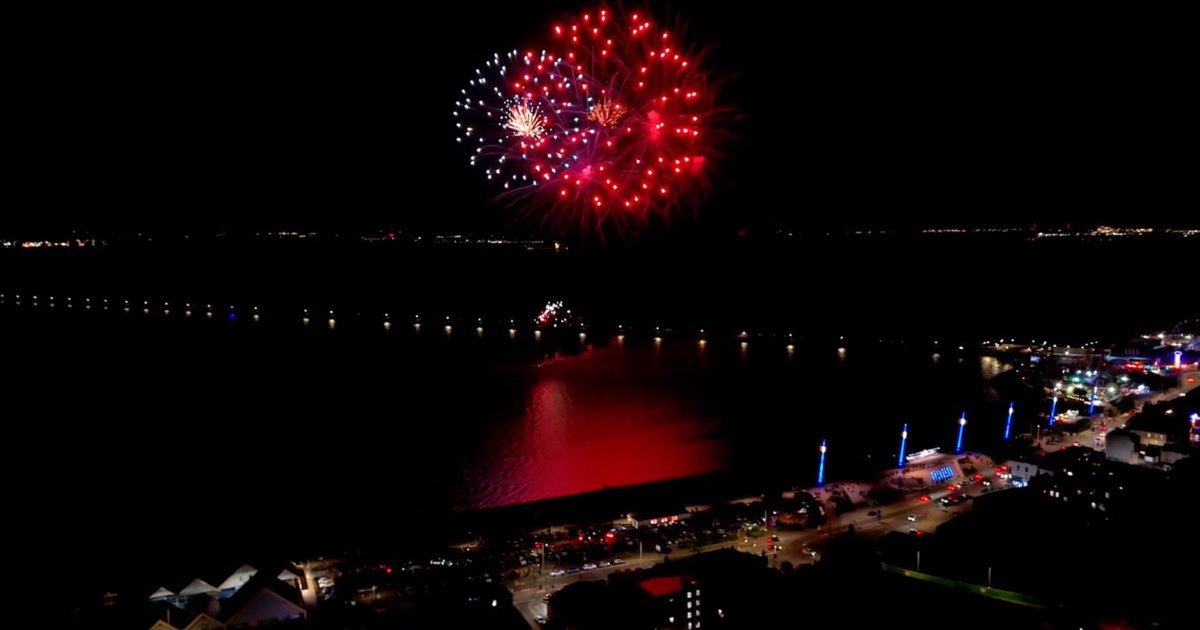
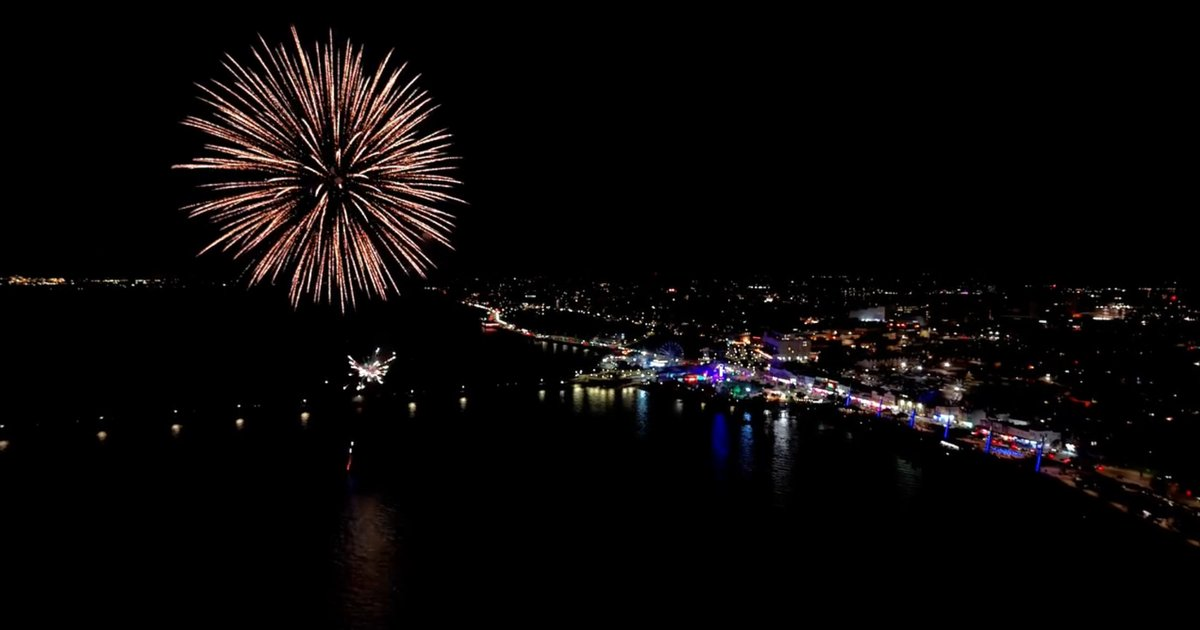
Southend fireworks: owner's better picture, credit DJIRAF
Claude-Session: https://claude.ai/code/session_018rhzTGPStmu4ppibYPgHS8

diff --git a/index.html b/index.html
@@ -4127,7 +4127,7 @@ function isSecurityStory(s){
   return SECURITY_RX.test(h) && !SECURITY_BAD_RX.test(h + " " + String(s.summary || ""));
 }
 /* Southend fireworks stories (displays over the seafront and pier, Bonfire Night, New Year, the Big Beach Bang) use the
-   owner's picture of red fireworks over the Thames off Southend seafront (owner's rule, 22 Nov 2026). Needs a firework word
+   owner's picture of fireworks over the Thames off Southend seafront, credit DJIRAF (owner's rule, 22 Nov 2026). Needs a firework word
    in the headline AND a Southend-area place in the headline or place. Injuries, deaths, fireworks thrown at people,
    anti-social behaviour, dispersal orders, police, fires and court cases keep the normal rules. Same rule as
    tools/build.py is_southend_fireworks */
@@ -4139,7 +4139,7 @@ function isSouthendFireworksStory(s){
   const h = String(s.headline || "");
   return FIREWORKS_RX.test(h) && FIREWORKS_PLACE_RX.test(h + " " + String(s.place || "")) && !FIREWORKS_BAD_RX.test(h + " " + String(s.summary || ""));
 }
-function southendFireworksArt(s){ return `<svg class="emap wxart townphoto" width="100%" height="100%" role="img" aria-label="Library photo: red fireworks over the Thames off Southend seafront at night" style="background:#120608"><image href="/img/topics/southendfireworks.jpg?v=1" x="0" y="0" width="100%" height="100%" preserveAspectRatio="xMidYMid slice"/></svg>`; }
+function southendFireworksArt(s){ return `<svg class="emap wxart townphoto" width="100%" height="100%" role="img" aria-label="Library photo: a golden firework burst over the Thames off Southend seafront at night" style="background:#0a0a0c"><image href="/img/topics/southendfireworks.jpg?v=2" x="0" y="0" width="100%" height="100%" preserveAspectRatio="xMidYMid slice"/></svg>`; }
 /* Essex history book stories (a new local history book, an author or historian writing about a town's past) use the owner's
    photo of a shelf of Essex local history books (owner's rule, 22 Nov 2026). Headline needs a book word AND a history word;
    "book now" and bookings do not count. More specific photos, police and fire still win; crimes, deaths, court cases and
@@ -4233,7 +4233,7 @@ function hospitalArt(s){ return `<svg class="emap wxart townphoto" width="100%" 
 function roadArt(s){ const r = ROAD_SIGN[roadOf(s)]; return `<svg class="emap wxart roadsign" width="100%" height="100%" role="img" aria-label="${esc(r.what)}" style="background:${r.bg}"><image href="${r.src}" x="6%" y="6%" width="88%" height="88%" preserveAspectRatio="xMidYMid meet"/></svg>`; }
 /* the art shown for a story: weather scenes for county-wide weather, a sport object for every sport story, club colours (now unused for sport), occasion scenes, otherwise the map */
 function storyArt(s, opts){ opts = opts || {}; return !opts.map && portraitOf(s) ? portraitArt(s, opts) : !opts.map && isRoseCrownStory(s) ? roseCrownArt(s, opts) : !opts.map && isXmasCathedralStory(s) ? xmasCathedralArt(s, opts) : isZooMap(s) || isStanstedMap(s) || isMerseaMap(s) || isFoodMap(s) || isOwnerMap(s) || isC2cMap(s) ? storyMap(s, opts) : !opts.map && isC2cStory(s) && isC2cBad(s) ? breakingArt(s, opts) : !opts.map && isC2cPhoto(s) ? c2cArt(s, opts) : !opts.map && isZooPhoto(s) ? zooArt(s, opts) : !opts.map && isStanstedPhoto(s) ? stanstedArt(s, opts) : !opts.map && isMerseaPhoto(s) ? merseaArt(s, opts) : !opts.map && isFoodPhoto(s) ? foodArt(s, opts) : !opts.map && isGasWorkStory(s) ? gasArt(s, opts) : !opts.map && isDataCentreStory(s) ? dataCentreArt(s, opts) : !opts.map && isRemembranceStory(s) ? remembranceArt(s, opts) : !opts.map && isLiverpoolStStory(s) ? liverpoolStArt(s, opts) : !opts.map && isGreaterAngliaStory(s) ? greaterAngliaArt(s, opts) : !opts.map && isBusStory(s) ? busArt(s, opts) : !opts.map && isPoolStory(s) ? poolArt(s, opts) : !opts.map && isHomelessStory(s) ? homelessArt(s, opts) : !opts.map && isDentalStory(s) ? dentalArt(s, opts) : !opts.map && isPostOfficeStory(s) ? postOfficeArt(s, opts) : !opts.map && isSecurityStory(s) ? securityArt(s, opts) : !opts.map && isSouthendFireworksStory(s) ? southendFireworksArt(s, opts) : !opts.map && isFogRoadStory(s) ? roadArt(s, opts) : !opts.map && isFogStory(s) ? fogArt(s, opts) : isWeatherArtStory(s) ? weatherArt(s, opts) : sportKindOf(s) ? sportArt(s, opts) : !opts.map && roadOf(s) ? roadArt(s, opts) : !opts.map && isAmbulanceStory(s) ? ambulanceArt(s, opts) : !opts.map && isTiptreeStory(s) ? tiptreeArt(s, opts) : !opts.map && isStateFayreStory(s) ? stateFayreArt(s, opts) : !opts.map && isHarlowCollegeStory(s) ? harlowCollegeArt(s, opts) : !opts.map && isColchesterCastleStory(s) ? colchesterCastleArt(s, opts) : !opts.map && isCountyHallStory(s) ? countyHallArt(s, opts) : !opts.map && isHospitalStory(s) ? hospitalArt(s, opts) : !opts.map && isPoliceStory(s) ? policeArt(s, opts) : !opts.map && isFireStory(s) ? fireArt(s, opts) : !opts.map && isHistoryBookStory(s) ? historyBookArt(s, opts) : !opts.map && stockOf(s) ? stockArt(s, opts) : !opts.map && isBreakingArtStory(s) ? breakingArt(s, opts) : clubOf(s) ? clubArt(s, opts) : !opts.map && isChristmasStory(s) ? christmasArt(s, opts) : seasonKindOf(s) ? seasonArt(s, opts) : !opts.map && townKeyOf(s) ? townArt(s, opts) : storyMap(s, opts); }
-function artCaption(s, noTown){ if(!noTown && portraitOf(s)){ const p = portraitOf(s); if(p.noCaption) return ""; /* owner asked for no caption on some photos (17 Nov 2026) */ return p.label ? `${p.label}${p.creator ? ": " + p.creator : ""}` : `${p.name} · File photo: ${p.creator}${p.license ? ", " + p.license : ""}`; } if(!noTown && isRoseCrownStory(s)) return `Rose and Crown, Writtle · Library image`; if(!noTown && isXmasCathedralStory(s)) return `Chelmsford Cathedral at Christmas · Library image`; if(isZooMap(s) || isStanstedMap(s) || isMerseaMap(s) || isFoodMap(s) || isOwnerMap(s) || isC2cMap(s)) return mapCaption(s); if(!noTown && isC2cStory(s) && isC2cBad(s)) return `${s.place || "Essex"}`; if(!noTown && isC2cPhoto(s)) return `c2c · Library image`; if(!noTown && isZooPhoto(s)) return `Colchester Zoo · Library image`; if(!noTown && isStanstedPhoto(s)) return `Library image · Photo: London Stansted Airport`; if(!noTown && isMerseaPhoto(s)) return `West Mersea · Library image`; if(!noTown && isFoodPhoto(s)) return `${s.place || "Essex"} · Food and drink · Library image`; if(!noTown && isGasWorkStory(s)) return `${s.place || "Essex"} · Gas works · Library image`; if(!noTown && isDataCentreStory(s)) return `${s.place || "Essex"} · Data centre · Library image`; if(!noTown && isLiverpoolStStory(s)) return `London Liverpool Street · Library image`; if(!noTown && isGreaterAngliaStory(s)) return `${s.place || "Essex"} · Greater Anglia · Library image`; if(!noTown && isBusStory(s)) return `${s.place || "Essex"} · Bus · Library image`; if(!noTown && isPoolStory(s)) return `${s.place || "Essex"} · Swimming pool · Library image`; if(!noTown && isHomelessStory(s)) return `${s.place || "Essex"} · Library image, not the scene of this story`; if(!noTown && isDentalStory(s)) return `${s.place || "Essex"} · Dental · Library image`; if(!noTown && isPostOfficeStory(s)) return `${s.place || "Essex"} · Post Office · Library image`; if(!noTown && isSecurityStory(s)) return `${s.place || "Essex"} · Security patrol · Library image`; if(!noTown && isSouthendFireworksStory(s)) return `Fireworks over Southend · Library image`; if(!noTown && isRemembranceStory(s)) return `${s.place || "Essex"} · Remembrance · Library image`; if(!noTown && isFogRoadStory(s)) return `${s.place || "Essex"} · ${ROAD_SIGN[roadOf(s)].what}`; if(!noTown && isFogStory(s)) return `${s.place || "Essex"} · Fog · Library image`; if(isWeatherArtStory(s)) return `Across Essex · ${WX_LABEL[wxKindOf(s)]}`; const c = clubOf(s), sk = sportKindOf(s); if(sk) return `${c || s.place || "Essex"} · ${SPORT_LABEL[sk]}`; if(!noTown && roadOf(s)) return `${s.place || "Essex"} · ${ROAD_SIGN[roadOf(s)].what}`; if(!noTown && isAmbulanceStory(s)) return `${s.place || "Essex"} · Library image`; if(!noTown && isTiptreeStory(s)) return `Wilkin & Sons, Tiptree · Library image`; if(!noTown && isStateFayreStory(s)) return `State Fayre, Hylands Park · Library image`; if(!noTown && isHarlowCollegeStory(s)) return `Harlow College · Library image`; if(!noTown && isColchesterCastleStory(s)) return `Colchester Castle · Library image`; if(!noTown && isCountyHallStory(s)) return `County Hall, Chelmsford · Library image`; if(!noTown && isHospitalStory(s)) return `${s.place || "Essex"} · Library image`; if(!noTown && isPoliceStory(s)) return `${s.place || "Essex"} · Library image`; if(!noTown && isFireStory(s)) return `${s.place || "Essex"} · Library image`; if(!noTown && isHistoryBookStory(s)) return `Essex history books · Library image`; if(!noTown && stockOf(s)){ const p = stockOf(s); return isBarePhoto(p) ? "" : isOwnerPhoto(p) && p.label ? p.label : isOwnerPhoto(p) ? (p.creator ? `${p.title ? p.title + " · " : ""}File photo: ${p.creator}${p.license ? ", " + p.license : ""}` : "File photo") : isCommonsPhoto(p) ? `${p.title ? p.title + " · " : ""}File photo: ${p.creator}, ${p.license}, via Wikimedia Commons` : `Stock photo: ${p.creator}, ${p.license}`; } if(!noTown && isBreakingArtStory(s)) return `${s.place || "Essex"}`; if(c) return CLUBS[c].nick ? `${c} · ${CLUBS[c].nick}` : c; if(!noTown && isChristmasStory(s)) return `${s.place || "Essex"} · Christmas · Library image`; const k = seasonKindOf(s); if(k) return `${s.place || "Essex"} · ${SEASON_LABEL[k]}`; const tk = !noTown && townKeyOf(s); if(tk) return townCredit(tk); return mapCaption(s); }
+function artCaption(s, noTown){ if(!noTown && portraitOf(s)){ const p = portraitOf(s); if(p.noCaption) return ""; /* owner asked for no caption on some photos (17 Nov 2026) */ return p.label ? `${p.label}${p.creator ? ": " + p.creator : ""}` : `${p.name} · File photo: ${p.creator}${p.license ? ", " + p.license : ""}`; } if(!noTown && isRoseCrownStory(s)) return `Rose and Crown, Writtle · Library image`; if(!noTown && isXmasCathedralStory(s)) return `Chelmsford Cathedral at Christmas · Library image`; if(isZooMap(s) || isStanstedMap(s) || isMerseaMap(s) || isFoodMap(s) || isOwnerMap(s) || isC2cMap(s)) return mapCaption(s); if(!noTown && isC2cStory(s) && isC2cBad(s)) return `${s.place || "Essex"}`; if(!noTown && isC2cPhoto(s)) return `c2c · Library image`; if(!noTown && isZooPhoto(s)) return `Colchester Zoo · Library image`; if(!noTown && isStanstedPhoto(s)) return `Library image · Photo: London Stansted Airport`; if(!noTown && isMerseaPhoto(s)) return `West Mersea · Library image`; if(!noTown && isFoodPhoto(s)) return `${s.place || "Essex"} · Food and drink · Library image`; if(!noTown && isGasWorkStory(s)) return `${s.place || "Essex"} · Gas works · Library image`; if(!noTown && isDataCentreStory(s)) return `${s.place || "Essex"} · Data centre · Library image`; if(!noTown && isLiverpoolStStory(s)) return `London Liverpool Street · Library image`; if(!noTown && isGreaterAngliaStory(s)) return `${s.place || "Essex"} · Greater Anglia · Library image`; if(!noTown && isBusStory(s)) return `${s.place || "Essex"} · Bus · Library image`; if(!noTown && isPoolStory(s)) return `${s.place || "Essex"} · Swimming pool · Library image`; if(!noTown && isHomelessStory(s)) return `${s.place || "Essex"} · Library image, not the scene of this story`; if(!noTown && isDentalStory(s)) return `${s.place || "Essex"} · Dental · Library image`; if(!noTown && isPostOfficeStory(s)) return `${s.place || "Essex"} · Post Office · Library image`; if(!noTown && isSecurityStory(s)) return `${s.place || "Essex"} · Security patrol · Library image`; if(!noTown && isSouthendFireworksStory(s)) return `Fireworks over Southend · Library image · Picture: DJIRAF`; if(!noTown && isRemembranceStory(s)) return `${s.place || "Essex"} · Remembrance · Library image`; if(!noTown && isFogRoadStory(s)) return `${s.place || "Essex"} · ${ROAD_SIGN[roadOf(s)].what}`; if(!noTown && isFogStory(s)) return `${s.place || "Essex"} · Fog · Library image`; if(isWeatherArtStory(s)) return `Across Essex · ${WX_LABEL[wxKindOf(s)]}`; const c = clubOf(s), sk = sportKindOf(s); if(sk) return `${c || s.place || "Essex"} · ${SPORT_LABEL[sk]}`; if(!noTown && roadOf(s)) return `${s.place || "Essex"} · ${ROAD_SIGN[roadOf(s)].what}`; if(!noTown && isAmbulanceStory(s)) return `${s.place || "Essex"} · Library image`; if(!noTown && isTiptreeStory(s)) return `Wilkin & Sons, Tiptree · Library image`; if(!noTown && isStateFayreStory(s)) return `State Fayre, Hylands Park · Library image`; if(!noTown && isHarlowCollegeStory(s)) return `Harlow College · Library image`; if(!noTown && isColchesterCastleStory(s)) return `Colchester Castle · Library image`; if(!noTown && isCountyHallStory(s)) return `County Hall, Chelmsford · Library image`; if(!noTown && isHospitalStory(s)) return `${s.place || "Essex"} · Library image`; if(!noTown && isPoliceStory(s)) return `${s.place || "Essex"} · Library image`; if(!noTown && isFireStory(s)) return `${s.place || "Essex"} · Library image`; if(!noTown && isHistoryBookStory(s)) return `Essex history books · Library image`; if(!noTown && stockOf(s)){ const p = stockOf(s); return isBarePhoto(p) ? "" : isOwnerPhoto(p) && p.label ? p.label : isOwnerPhoto(p) ? (p.creator ? `${p.title ? p.title + " · " : ""}File photo: ${p.creator}${p.license ? ", " + p.license : ""}` : "File photo") : isCommonsPhoto(p) ? `${p.title ? p.title + " · " : ""}File photo: ${p.creator}, ${p.license}, via Wikimedia Commons` : `Stock photo: ${p.creator}, ${p.license}`; } if(!noTown && isBreakingArtStory(s)) return `${s.place || "Essex"}`; if(c) return CLUBS[c].nick ? `${c} · ${CLUBS[c].nick}` : c; if(!noTown && isChristmasStory(s)) return `${s.place || "Essex"} · Christmas · Library image`; const k = seasonKindOf(s); if(k) return `${s.place || "Essex"} · ${SEASON_LABEL[k]}`; const tk = !noTown && townKeyOf(s); if(tk) return townCredit(tk); return mapCaption(s); }
 function artKick(s, noTown){ if(!noTown && portraitOf(s)) return "Photo"; if(!noTown && isRoseCrownStory(s)) return "Photo"; if(!noTown && isXmasCathedralStory(s)) return "Photo"; if(isZooMap(s) || isStanstedMap(s) || isMerseaMap(s) || isFoodMap(s) || isOwnerMap(s) || isC2cMap(s)) return "Where"; if(!noTown && isC2cStory(s) && isC2cBad(s)) return "Breaking"; if(!noTown && isC2cPhoto(s)) return "Photo"; if(!noTown && (isZooPhoto(s) || isStanstedPhoto(s) || isMerseaPhoto(s) || isFoodPhoto(s) || isGasWorkStory(s) || isDataCentreStory(s) || isRemembranceStory(s) || isLiverpoolStStory(s) || isGreaterAngliaStory(s) || isBusStory(s) || isPoolStory(s) || isHomelessStory(s) || isDentalStory(s) || isPostOfficeStory(s) || isSecurityStory(s) || isSouthendFireworksStory(s))) return "Photo"; if(!noTown && isFogRoadStory(s)) return "Road"; if(!noTown && isFogStory(s)) return "Photo"; if(isWeatherArtStory(s)) return "Where"; if(sportKindOf(s)) return "Sport"; if(!noTown && roadOf(s)) return "Road"; if(!noTown && (isAmbulanceStory(s) || isTiptreeStory(s) || isStateFayreStory(s) || isHarlowCollegeStory(s) || isColchesterCastleStory(s) || isCountyHallStory(s))) return "Photo"; if(!noTown && isPoliceStory(s)) return "Photo"; if(!noTown && isFireStory(s)) return "Photo"; if(!noTown && isHistoryBookStory(s)) return "Photo"; if(!noTown && stockOf(s)) return isOwnerPhoto(stockOf(s)) && (stockOf(s).label || isBarePhoto(stockOf(s))) ? "" : isCommonsPhoto(stockOf(s)) || isOwnerPhoto(stockOf(s)) ? "Photo" : "Stock photo"; if(!noTown && isBreakingArtStory(s)) return "Breaking"; if(clubOf(s)) return "Club"; if(!noTown && isChristmasStory(s)) return "Photo"; if(!noTown && !seasonKindOf(s) && townKeyOf(s)) return "Photo"; return "Where"; }
 
 /* ============================================================

diff --git a/tools/build.py b/tools/build.py
@@ -104,7 +104,7 @@ POLICE_PHOTOS = ["bluelights", "bluelights-2"]  # img/topics/<name>.jpg and shar
 POLICE_PICK = {}
 OG_JPG = {"chelmsfordcathedral", "ambulance", "tiptree", "tiptree-2", "statefayre", "christmas-2", "hospital", "bluelights", "bluelights-2", "fireengine", "countyhall", "fog", "zoo", "stansted-1", "stansted-2", "stansted-3", "gaswork", "datacentre", "remembrance", "food", "harlowcollege", "colchestercastle", "christmas", "c2c", "mersea-1", "mersea-2", "mersea-3", "bus", "pool", "homeless", "dental", "rosecrown", "greateranglia", "liverpoolst", "postoffice", "security", "historybooks", "southendfireworks"}
 LIBRARY_PHOTOS = POLICE_PHOTOS + ["chelmsfordcathedral", "fireengine", "ambulance", "tiptree", "tiptree-2", "statefayre", "christmas-2", "countyhall", "fog", "zoo", "stansted-1", "stansted-2", "stansted-3", "gaswork", "datacentre", "remembrance", "food", "harlowcollege", "colchestercastle", "christmas", "c2c", "mersea-1", "mersea-2", "mersea-3", "bus", "pool", "homeless", "dental", "rosecrown", "greateranglia", "liverpoolst", "postoffice", "security", "historybooks", "southendfireworks"]  # owner's library photos shown on story pages
-LIBRARY_ALT = {"chelmsfordcathedral": "Chelmsford Cathedral at night, lit purple with Christmas stars", "rosecrown": "the white-painted front of the Rose and Crown pub in Writtle, with hanging baskets", "dental": "a young patient with braces having a check-up at the dentist", "greateranglia": "a Great British Railways Anglia train in blue livery at a station platform", "liverpoolst": "the departures board and busy concourse at London Liverpool Street station", "ambulance": "an ambulance with blue lights", "statefayre": "the State Fayre 2027 festival logo over a crowd at Hylands Park", "tiptree": "the Wilkin & Sons Tiptree sign", "tiptree-2": "the Wilkin & Sons Tiptree sign", "christmas-2": "a lit Christmas tree", "fog": "fog over a footpath and flats at dusk", "fireengine": "a fire engine", "countyhall": "County Hall, Chelmsford, home of Essex County Council", "zoo": "visitors watching elephants at Colchester Zoo", "stansted-1": "check-in desks at London Stansted Airport", "stansted-2": "the terminal concourse at London Stansted Airport", "stansted-3": "a bus outside the terminal at London Stansted Airport", "gaswork": "a worker fitting yellow gas pipe in a trench", "datacentre": "server racks in a data centre", "remembrance": "poppy wreaths laid at a war memorial", "food": "a plate of roast chicken, grains and roasted vegetables", "harlowcollege": "the entrance to Harlow College", "colchestercastle": "Colchester Castle, the Norman keep, in sunshine", "christmas": "red Christmas baubles on a fir garland", "c2c": "a c2c train in white and magenta livery near Ripple Lane, Barking", "mersea-1": "pastel beach huts on the sand at West Mersea", "mersea-2": "a long row of pastel beach huts on West Mersea beach", "mersea-3": "the sandy beach and the Blackwater estuary at West Mersea", "bus": "inside a bus, with a red stop button on a yellow pole", "homeless": "a man in a woolly hat sitting on a pavement, seen from behind", "pool": "an indoor swimming pool with lane ropes and steps", "postoffice": "the counters inside a Post Office branch, with queue barriers in front", "security": "two security patrol officers in red hi-vis vests walking along a town centre high street", "historybooks": "a shelf of Essex local history books", "southendfireworks": "red fireworks over the Thames off Southend seafront at night, with the pier lit up"}
+LIBRARY_ALT = {"chelmsfordcathedral": "Chelmsford Cathedral at night, lit purple with Christmas stars", "rosecrown": "the white-painted front of the Rose and Crown pub in Writtle, with hanging baskets", "dental": "a young patient with braces having a check-up at the dentist", "greateranglia": "a Great British Railways Anglia train in blue livery at a station platform", "liverpoolst": "the departures board and busy concourse at London Liverpool Street station", "ambulance": "an ambulance with blue lights", "statefayre": "the State Fayre 2027 festival logo over a crowd at Hylands Park", "tiptree": "the Wilkin & Sons Tiptree sign", "tiptree-2": "the Wilkin & Sons Tiptree sign", "christmas-2": "a lit Christmas tree", "fog": "fog over a footpath and flats at dusk", "fireengine": "a fire engine", "countyhall": "County Hall, Chelmsford, home of Essex County Council", "zoo": "visitors watching elephants at Colchester Zoo", "stansted-1": "check-in desks at London Stansted Airport", "stansted-2": "the terminal concourse at London Stansted Airport", "stansted-3": "a bus outside the terminal at London Stansted Airport", "gaswork": "a worker fitting yellow gas pipe in a trench", "datacentre": "server racks in a data centre", "remembrance": "poppy wreaths laid at a war memorial", "food": "a plate of roast chicken, grains and roasted vegetables", "harlowcollege": "the entrance to Harlow College", "colchestercastle": "Colchester Castle, the Norman keep, in sunshine", "christmas": "red Christmas baubles on a fir garland", "c2c": "a c2c train in white and magenta livery near Ripple Lane, Barking", "mersea-1": "pastel beach huts on the sand at West Mersea", "mersea-2": "a long row of pastel beach huts on West Mersea beach", "mersea-3": "the sandy beach and the Blackwater estuary at West Mersea", "bus": "inside a bus, with a red stop button on a yellow pole", "homeless": "a man in a woolly hat sitting on a pavement, seen from behind", "pool": "an indoor swimming pool with lane ropes and steps", "postoffice": "the counters inside a Post Office branch, with queue barriers in front", "security": "two security patrol officers in red hi-vis vests walking along a town centre high street", "historybooks": "a shelf of Essex local history books", "southendfireworks": "a golden firework burst over the Thames off Southend seafront at night"}
 # Essex County Council stories use the owner's photo of County Hall, Chelmsford (owner's rule, Nov 2026), ahead of
 # stock, town and map art. Road signs, police and fire photos still win. Same rule as the page's isCountyHallStory.
 ECC_RX = re.compile(r"\bEssex County Council\b|\bCounty Hall\b", re.I)
@@ -566,7 +566,7 @@ def is_security(it, sec):
     return bool(SECURITY_RX.search(h) and not SECURITY_BAD_RX.search(h + " " + str(it.get("summary") or "")))
 
 # Southend fireworks stories (displays over the seafront and pier, Bonfire Night, New Year, the Big Beach Bang) use the
-# owner's picture of red fireworks over the Thames off Southend seafront (owner's rule, 22 Nov 2026), ahead of fog,
+# owner's picture of fireworks over the Thames off Southend seafront, credit DJIRAF (owner's rule, 22 Nov 2026), ahead of fog,
 # stock, County Hall, Christmas, town and map art. The headline needs a firework word AND Southend, Westcliff, Leigh,
 # Thorpe Bay, Shoeburyness, Southchurch or Prittlewell (in the headline or the place). Sport stories keep the sport
 # photos. Injuries, deaths, fireworks thrown at people, anti-social behaviour, dispersal orders, police, fires and court
@@ -1896,7 +1896,7 @@ def story_page(sec, it, more):
                if card == "dental" else "<b>Post Office</b>. Library image, not the scene of this story."
                if card == "postoffice" else "<b>Security patrol</b>. Library image, not the scene of this story."
                if card == "security" else "<b>Essex history books</b>. Library image."
-               if card == "historybooks" else "<b>Fireworks over Southend</b>. Library image."
+               if card == "historybooks" else "<b>Fireworks over Southend</b>. Library image. Picture: DJIRAF."
                if card == "southendfireworks" else "<b>Remembrance</b>. Library image, not the scene of this story."
                if card == "remembrance" else "<b>Christmas</b>. Library image, not the scene of this story."
                if card in ("christmas", "christmas-2") else "<b>Wilkin &amp; Sons, Tiptree</b>. Library image."

diff --git a/ops/newsroom.md b/ops/newsroom.md
@@ -430,7 +430,7 @@ SECURITY PATROL PHOTO (owner's rule, 22 Nov 2026). Security patrol stories (secu
 
 ESSEX HISTORY BOOKS PHOTO (owner's rule, 22 Nov 2026). Generic Essex history book stories (a new local history book, an author or historian writing about a town's or the county's past, a heritage book launch) automatically show the owner's photo of a shelf of Essex local history books (img/topics/historybooks.jpg, share card img/og/historybooks.jpg), captioned "Essex history books · Library image", on the front page, the story page and the share card. The headline needs a book word (book, author, historian, memoir, published) AND a history word (history, heritage, bygone, forgotten, secret, past, wartime, Victorian, Tudor, Roman, Saxon, medieval, archives, memories, century and so on); "book now", "book your tickets" and bookings do not count. More specific photos still win (portraits, Colchester Castle, County Hall, Remembrance, Great Baddow Hoard and the rest), as do police and fire; crimes, deaths, court cases and fires keep the normal rules. Stories like this are rare, so write the headline plainly (e.g. "Chelmsford historian's new book tells the forgotten story of ...") so the rule can find it. Never request a stock photo for one and never add a "photo" field to one.
 
-SOUTHEND FIREWORKS PHOTO (owner's rule, 22 Nov 2026). Southend fireworks stories (a firework word, fireworks, Bonfire Night, the Big Beach Bang or pyrotechnics, in the headline AND Southend, Westcliff, Leigh-on-Sea, Thorpe Bay, Shoeburyness, Southchurch or Prittlewell in the headline or the place: seafront and pier displays, Bonfire Night, New Year's Eve, Christmas lights switch-ons with fireworks) automatically show the owner's picture of red fireworks over the Thames off Southend seafront with the pier lit up (img/topics/southendfireworks.jpg, share card img/og/southendfireworks.jpg), captioned "Fireworks over Southend · Library image", on the front page, the story page and the share card, ahead of fog, stock, County Hall, Christmas, town and map art. Sport stories keep the sport photos. Injuries, deaths, fireworks thrown at people or police, anti-social behaviour, dispersal orders, police, fires and court cases keep the normal rules. Put "fireworks" and the Southend place in the headline of any such story, never request a stock photo for one, and never add a "photo" field to one.
+SOUTHEND FIREWORKS PHOTO (owner's rule, 22 Nov 2026). Southend fireworks stories (a firework word, fireworks, Bonfire Night, the Big Beach Bang or pyrotechnics, in the headline AND Southend, Westcliff, Leigh-on-Sea, Thorpe Bay, Shoeburyness, Southchurch or Prittlewell in the headline or the place: seafront and pier displays, Bonfire Night, New Year's Eve, Christmas lights switch-ons with fireworks) automatically show the owner's picture of a golden firework burst over the Thames off Southend seafront (img/topics/southendfireworks.jpg, share card img/og/southendfireworks.jpg; replaced the first picture the same day), captioned "Fireworks over Southend · Library image · Picture: DJIRAF" (always keep the DJIRAF credit), on the front page, the story page and the share card, ahead of fog, stock, County Hall, Christmas, town and map art. Sport stories keep the sport photos. Injuries, deaths, fireworks thrown at people or police, anti-social behaviour, dispersal orders, police, fires and court cases keep the normal rules. Put "fireworks" and the Southend place in the headline of any such story, never request a stock photo for one, and never add a "photo" field to one.
 
 ROSE AND CROWN, WRITTLE PHOTO (owner's rule, 14 Nov 2026). Any story about the Rose and Crown pub in Writtle automatically shows the owner's photo of the pub's white-painted frontage (img/topics/rosecrown.jpg, share card img/og/rosecrown.jpg) on the front page, the story page and the share card, captioned "Rose and Crown, Writtle", ahead of every other library, stock, food, town and map art. ONLY this pub: the headline or summary must name "Rose and Crown" (or "Rose & Crown") and Writtle must appear in the headline, summary or "place" (there are other Rose and Crowns in Essex, and they never use it). General Writtle stories that do not feature this pub never use it. Deaths, injuries, police, court cases and fires keep the normal rules. For any story featuring the pub, name "the Rose and Crown in Writtle" in the summary, and never add a "photo" field to it.
 
